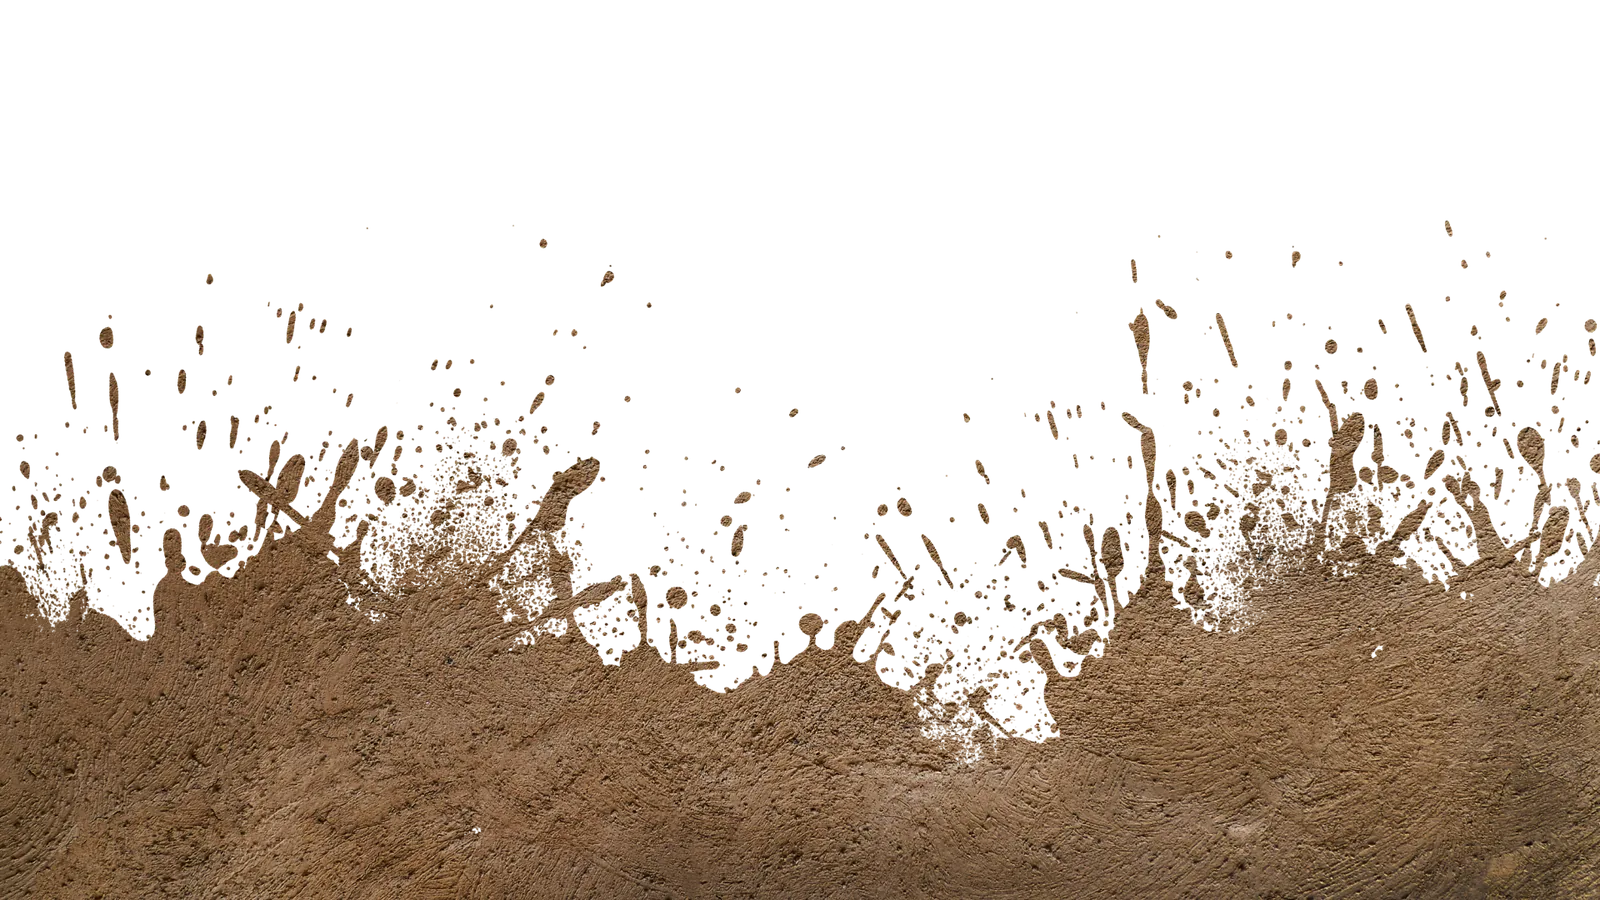
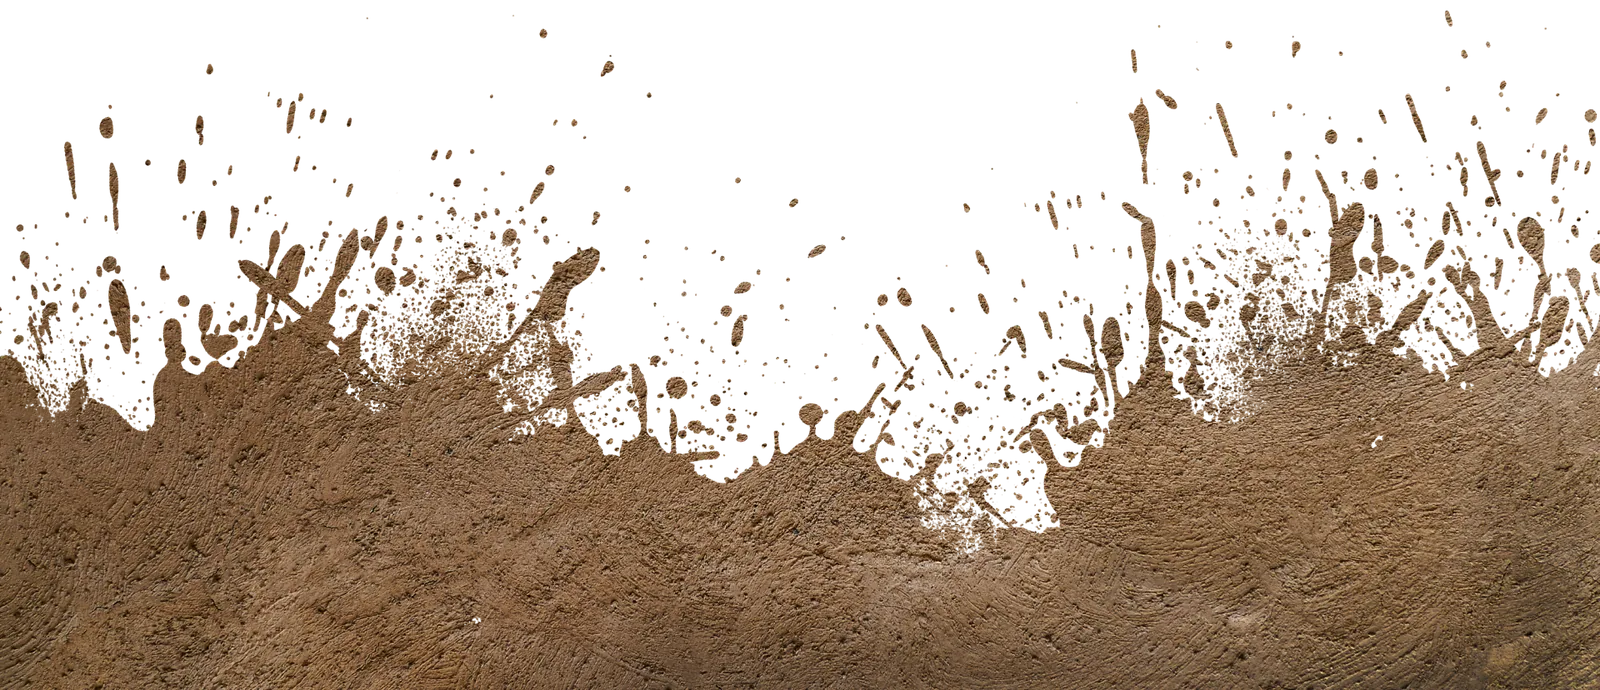
v3: lama sem cortar respingos, medidor mais visivel e menos espaco branco
- Lama: apara so o topo vazio transparente (nenhum respingo cortado) e
  exibe a imagem inteira via aspect-ratio (sem cover cropando o topo).
- Medidor IMPACTO ENTRA->ENERGIA CONTROLADA: faixa de scroll maior
  (entry 8% -> exit 42%), arcos mais grossos e cursor com linha + ponto
  brilhante acompanhando a rolagem (mais suave e nitido).
- Reduz padding inferior de O corpo p/ diminuir o branco antes da lama.

diff --git a/src/components/concept-home/ImpactJourney.module.css b/src/components/concept-home/ImpactJourney.module.css
@@ -128,12 +128,13 @@
 }
 
 /* Divisor de lama (v3) — transição O corpo (branco) → O uso (escuro).
-   Respingos sobem sobre o branco; a lama assenta descendo para o escuro. */
+   Mostra a imagem INTEIRA (sem cortar os respingos): aspect-ratio = imagem. */
 .mudDivider {
   position: relative;
   z-index: 4;
-  height: clamp(200px, 30vw, 480px);
-  background: #fff url("/media/lama.webp") center bottom / cover no-repeat;
+  width: 100%;
+  aspect-ratio: 1600 / 690;
+  background: #fff url("/media/lama.webp") center / 100% 100% no-repeat;
 }
 
 /* Amarelo da logo em fundos CLAROS (v3): tom escuro legível (substitui o verde-oliva) */
@@ -152,22 +153,42 @@
 [data-v3="true"] .wave {
   animation: v3WaveMeter linear both;
   animation-timeline: view();
-  animation-range: entry 12% cover 62%;
+  animation-range: entry 8% exit 42%;   /* avança durante quase toda a passagem = mais suave/perceptível */
 }
-[data-v3="true"] .wave i { clip-path: inset(0 calc((1 - var(--wave-p)) * 100%) 0 0); }
-[data-v3="true"] .wave i:nth-child(2) { border-color: rgb(0 0 0 / 45%); }  /* neutro */
-[data-v3="true"] .wave i:nth-child(3) { border-color: var(--citrus); }  /* amarelo */
+[data-v3="true"] .wave i { clip-path: inset(0 calc((1 - var(--wave-p)) * 100%) 0 0); transition: none; }
+[data-v3="true"] .wave i:nth-child(1) { border-top-width: 4px; }
+[data-v3="true"] .wave i:nth-child(2) { border-color: rgb(0 0 0 / 55%); border-top-width: 4px; }  /* neutro */
+[data-v3="true"] .wave i:nth-child(3) { border-color: var(--citrus); border-top-width: 5px; }     /* amarelo */
+/* cursor de leitura: linha + ponto brilhante que acompanha a rolagem */
 [data-v3="true"] .wave::after {
   content: "";
   position: absolute;
-  top: 10%;
-  bottom: 10%;
+  top: 6%;
+  bottom: 6%;
   left: calc(var(--wave-p) * 100%);
-  width: 2px;
+  width: 3px;
   background: var(--citrus);
-  box-shadow: 0 0 12px rgb(254 242 19 / 70%);
-  opacity: calc(var(--wave-p) * (1 - var(--wave-p)) * 4);
+  box-shadow: 0 0 14px 2px rgb(254 242 19 / 80%);
+  opacity: calc(min(var(--wave-p), 1 - var(--wave-p)) * 6);
 }
+[data-v3="true"] .wave::before {
+  content: "";
+  position: absolute;
+  z-index: 2;
+  top: 50%;
+  left: calc(var(--wave-p) * 100%);
+  width: 13px;
+  height: 13px;
+  margin: -6.5px 0 0 -6.5px;
+  border-radius: 50%;
+  background: var(--citrus);
+  box-shadow: 0 0 16px 3px rgb(254 242 19 / 85%);
+  opacity: calc(min(var(--wave-p), 1 - var(--wave-p)) * 6);
+}
+
+/* Reduz o espaço em branco entre o conteúdo de O corpo (400 mil km) e a lama */
+[data-v3="true"] .promise { padding-bottom: clamp(2rem, 4vw, 4.5rem); }
+[data-v3="true"] .leanProof { margin-top: clamp(1.5rem, 3vw, 2.25rem); }
 
 /* Autoridade com vídeo institucional (v3) */
 [data-v3="true"] .authorityVideo { max-width: 1000px; margin-top: clamp(3rem, 6vw, 5rem); }
